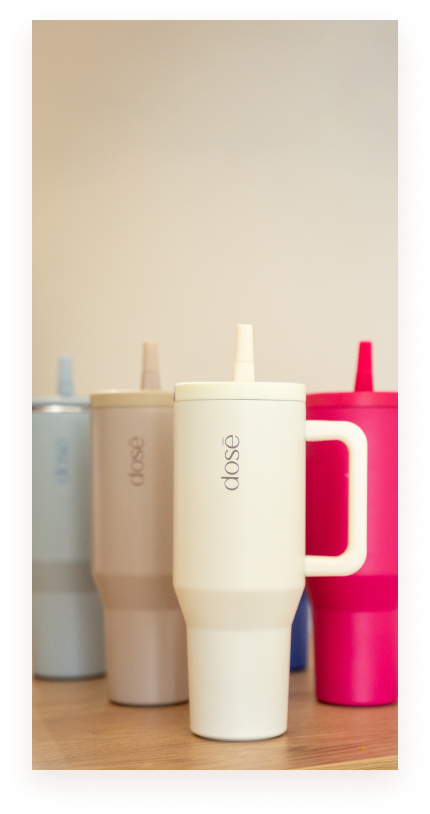
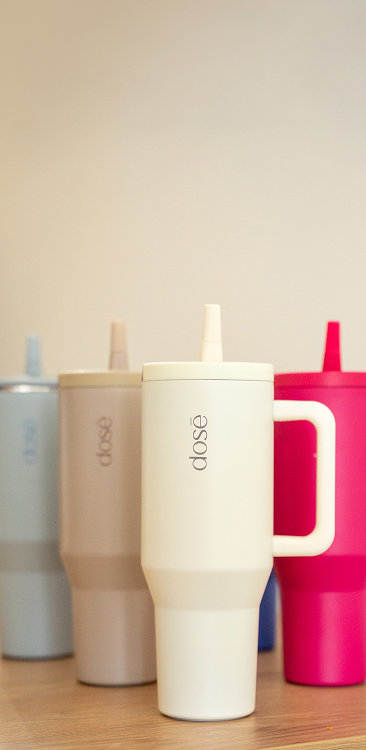
Update shop

diff --git a/app/components/sections/HeroSectionMobileShop.tsx b/app/components/sections/HeroSectionMobileShop.tsx
@@ -1,0 +1,143 @@
+"use client";
+
+/**
+ * HeroSectionMobile Component
+ *
+ * Mobile-only version of HeroSection with 1100px height
+ * Used for mobile banner displays with different layout than desktop
+ */
+
+import Image from "next/image";
+
+interface HeroSectionMobileProps {
+  backgroundImageMobile?: string;
+  backgroundColor?: string;
+  badge?: string;
+  heading: string;
+  description: string;
+  features: string[];
+  productImage?: string;
+  centerImage?: string;
+  productLabel?: string;
+  textColor: "light" | "dark";
+}
+
+export default function HeroSectionMobile({
+  backgroundImageMobile,
+  backgroundColor,
+  badge,
+  heading,
+  description,
+  features,
+  centerImage,
+  productLabel,
+  textColor,
+}: HeroSectionMobileProps) {
+  const isDarkText = textColor === "dark";
+  const badgeBgClass = isDarkText
+    ? "bg-dose-light"
+    : "bg-white/20 backdrop-blur-sm";
+  const badgeTextClass = isDarkText ? "text-dose-dark" : "text-white";
+  const headingTextClass = isDarkText ? "text-dose-dark" : "text-white";
+  const descriptionTextClass = isDarkText ? "text-dose-mid" : "text-white/90";
+  const featureBgClass = isDarkText
+    ? "bg-dose-light"
+    : "bg-white/20 backdrop-blur-sm";
+  const featureTextClass = isDarkText ? "text-dose-dark" : "text-white";
+  const productLabelBgClass = isDarkText
+    ? "bg-dose-light"
+    : "bg-white/20 backdrop-blur-sm";
+  const productLabelTextClass = isDarkText ? "text-dose-dark" : "text-white";
+
+  return (
+    <section className="w-full lg:hidden flex justify-center px-2">
+      <div
+        className="flex flex-col rounded-md bg-amber-200 "
+        style={
+          backgroundImageMobile
+            ? {
+                width: "366px",
+                height: "750px",
+                backgroundImage: `url(${backgroundImageMobile})`,
+                backgroundSize: "cover",
+                backgroundPosition: "top",
+                backgroundRepeat: "no-repeat",
+              }
+            : {
+                width: "366px",
+                height: "750px",
+                backgroundColor: backgroundColor || "#FEF8F4",
+              }
+        }
+      >
+        {/* First Section: Text Content */}
+        <div className="FirstSection flex flex-col justify-start items-center h-[400px]">
+          <div className="flex flex-col text-center w-[85%] gap-4 pt-8">
+            {/* Badge */}
+            {badge && (
+              <div
+                className={`w-fit ${badgeBgClass} rounded-[99px] px-6 self-center`}
+              >
+                <span className={`${badgeTextClass} font-medium text-[14px]`}>
+                  {badge}
+                </span>
+              </div>
+            )}
+
+            {/* Heading */}
+            <h2 className={`${headingTextClass}`}>{heading}</h2>
+
+            {/* Description */}
+            <p className={`${descriptionTextClass} text-p-responsive `}>
+              {description}
+            </p>
+
+            {/* Feature Badges */}
+            {features && features.length > 0 && (
+              <div className="flex gap-2 flex-wrap justify-center">
+                {features.map((feature, index) => (
+                  <div
+                    key={index}
+                    className={`${featureBgClass} rounded-[99px] px-4 py-2`}
+                  >
+                    <span
+                      className={`${featureTextClass} font-medium text-[12px]`}
+                    >
+                      {feature}
+                    </span>
+                  </div>
+                ))}
+              </div>
+            )}
+          </div>
+
+          {/* Center Image */}
+          {centerImage && (
+            <div className="relative w-[280px] h-auto mt-4">
+              <Image
+                src={centerImage}
+                alt="Featured product"
+                width={280}
+                height={400}
+                className="object-contain"
+              />
+            </div>
+          )}
+        </div>
+
+        {/* Second Section: Product Label */}
+        <div className="SecondSection flex items-center justify-center h-[350px]">
+          {productLabel && (
+            <div className={`${productLabelBgClass} rounded-[99px] px-4 py-2`}>
+              <span
+                className={`${productLabelTextClass} font-medium text-[14px]`}
+              >
+                {productLabel}
+              </span>
+            </div>
+          )}
+        </div>
+      </div>
+    </section>
+  );
+}

diff --git a/app/components/sections/ShopItemsList.tsx b/app/components/sections/ShopItemsList.tsx
@@ -55,7 +55,7 @@ export default function ShopItemsList({ items }: ShopItemsListProps) {
                 className="flex flex-col lg:gap-6 gap-2 cursor-pointer hover:opacity-90 transition-opacity"
               >
                 {/* Product Image Container */}
-                <div className="relative w-full h-[300px] sm:h-[350px] lg:h-[400px] rounded-lg overflow-hidden bg-gray-800 group">
+                <div className="relative w-full h-[300px] sm:h-[350px] lg:h-[400px] rounded-lg overflow-hidden group">
                   <Image
                     src={imageUrl}
                     alt={`${item.name} ${item.color}`}

diff --git a/app/components/sections/ShopMainBanner.tsx b/app/components/sections/ShopMainBanner.tsx
@@ -6,13 +6,13 @@
  */
 
 import HeroSection from "./HeroSection";
-import HeroSectionMobile from "./HeroSectionMobile";
+import HeroSectionMobileShop from "./HeroSectionMobileShop";
 
 export default function ShopMainBanner() {
   return (
     <>
       {/* Mobile View */}
-      <HeroSectionMobile
+      <HeroSectionMobileShop
         backgroundImageMobile="/images/products/fourCupsMob.png"
         backgroundColor="#FEF8F4"
         badge="DOSE SHOP"

diff --git a/app/(pages)/shop/page.tsx b/app/(pages)/shop/page.tsx
@@ -83,7 +83,10 @@ export default async function ShopPage() {
   }
 
   return (
-    <div className="relative w-full" data-name="Shop Desktop">
+    <div
+      className="relative w-full lg:space-y-32 space-y-16"
+      data-name="Shop Desktop"
+    >
       <div className="lg:mt-8 mt-24">
         <ShopMainBanner />
       </div>
